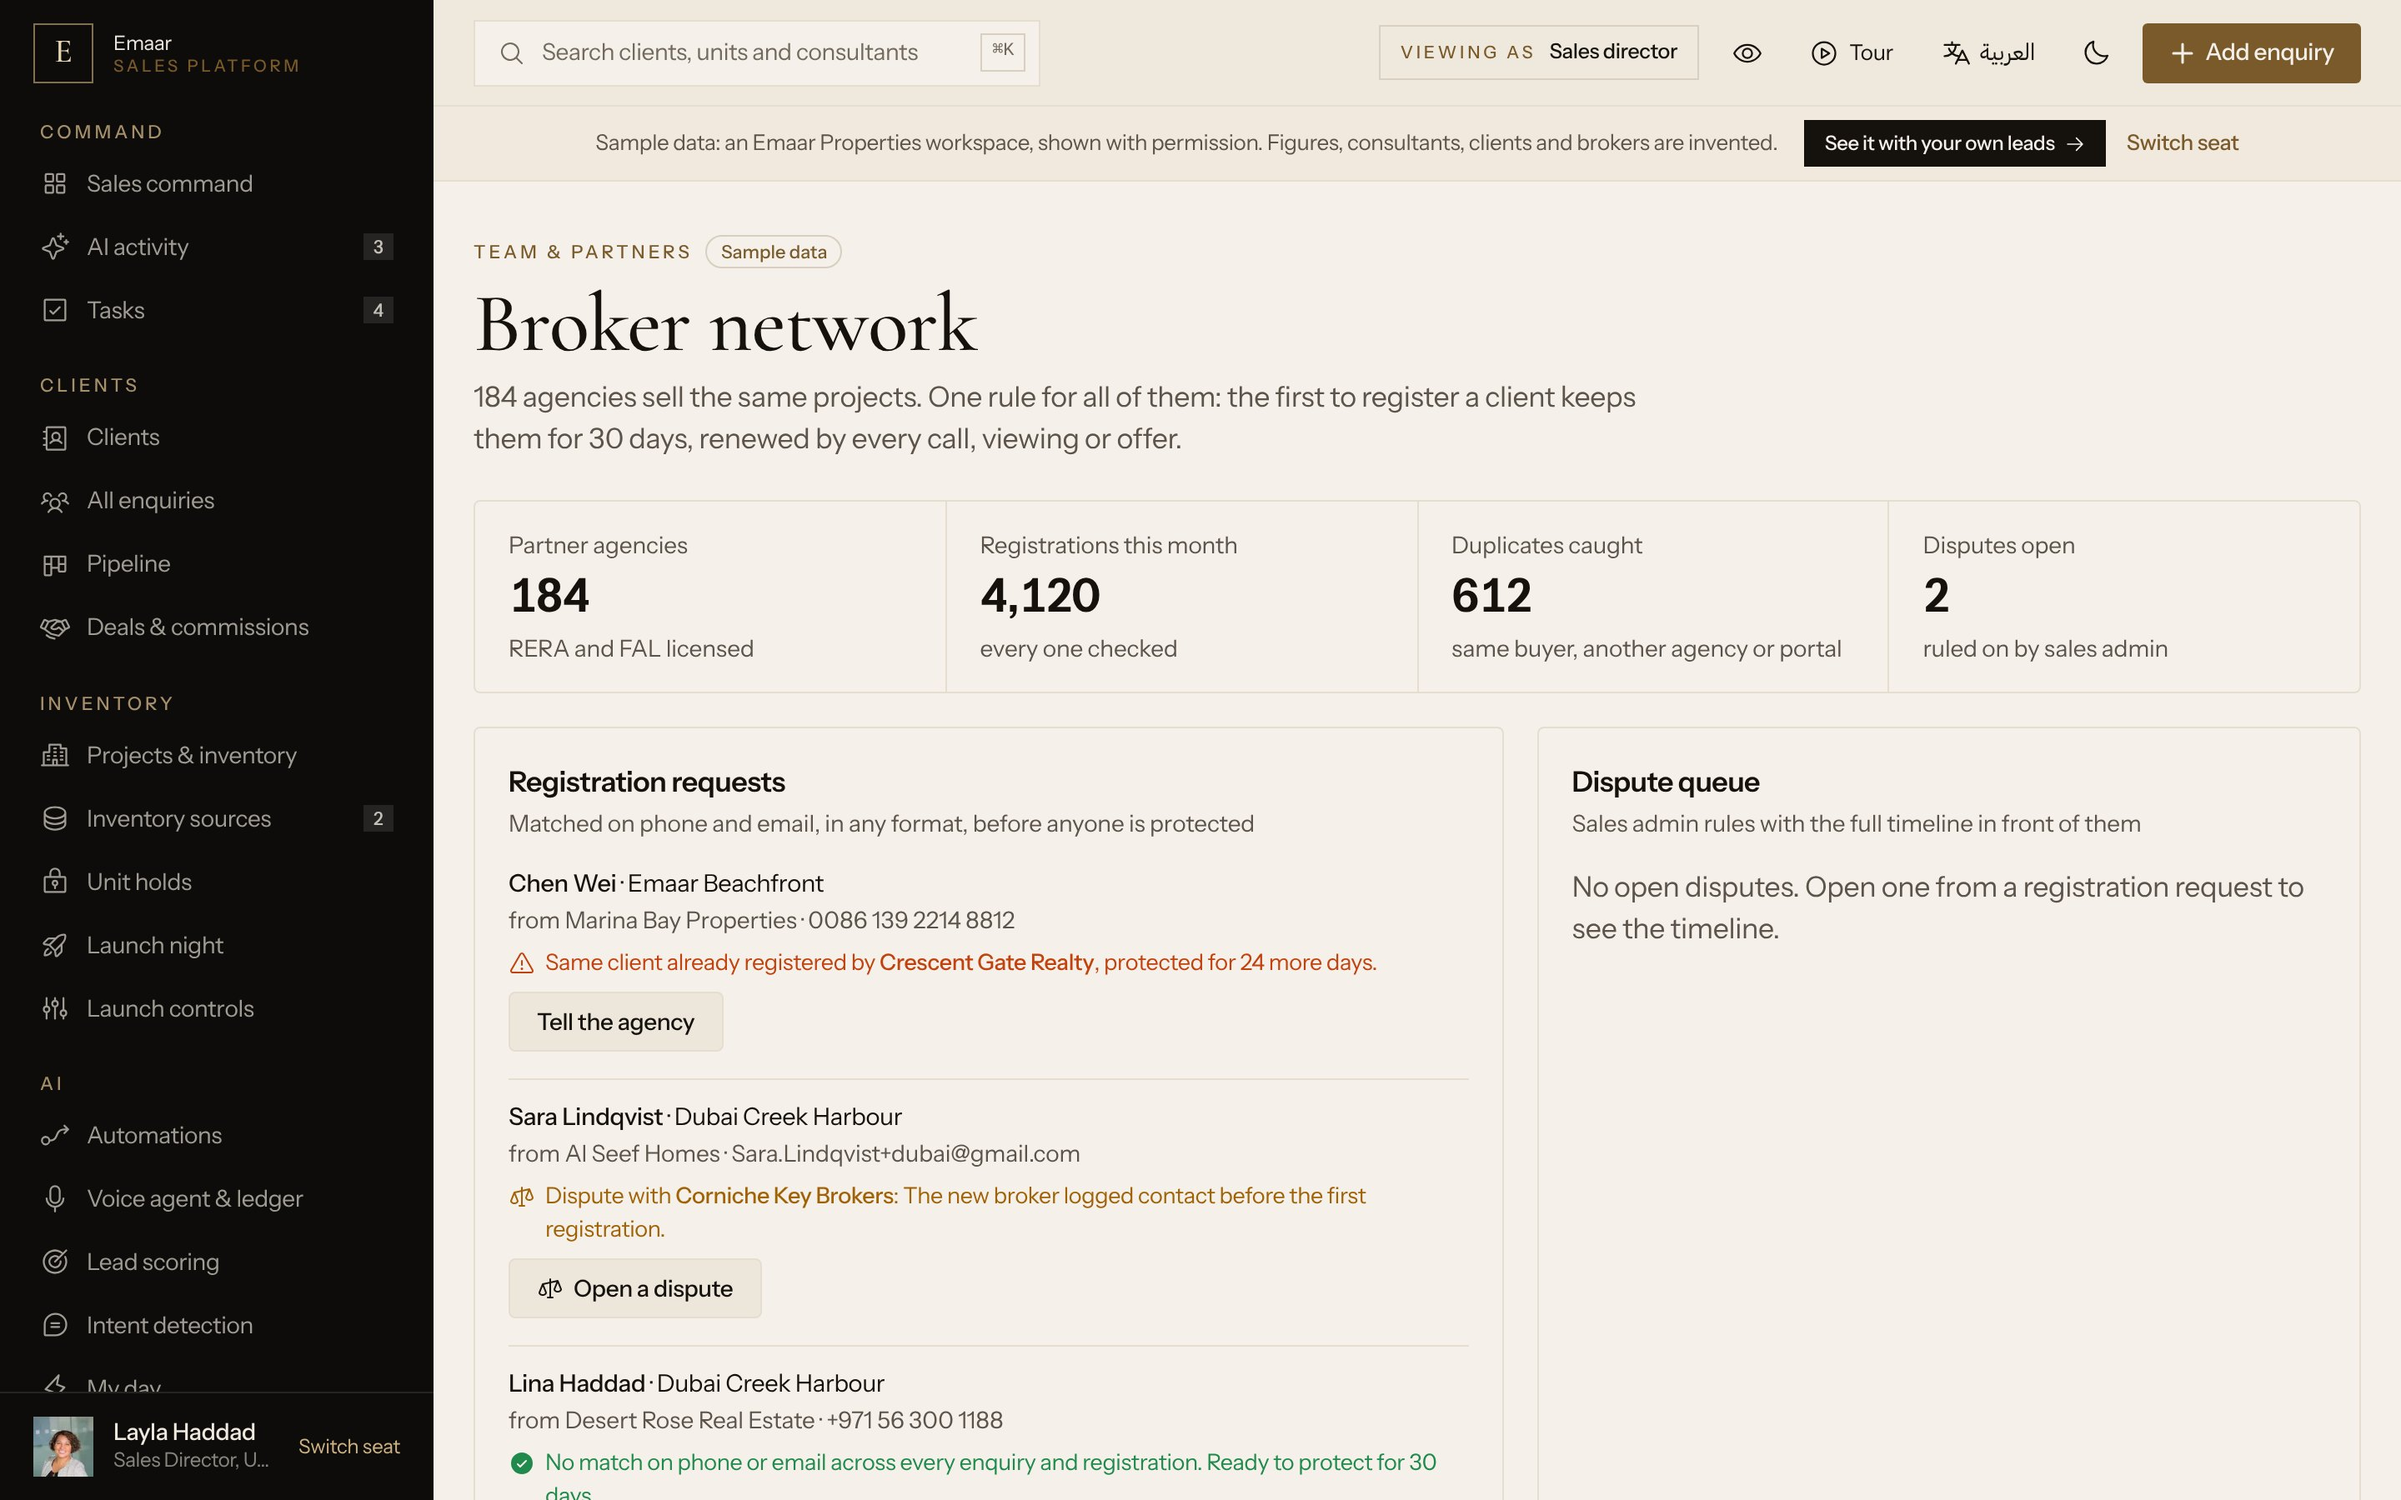
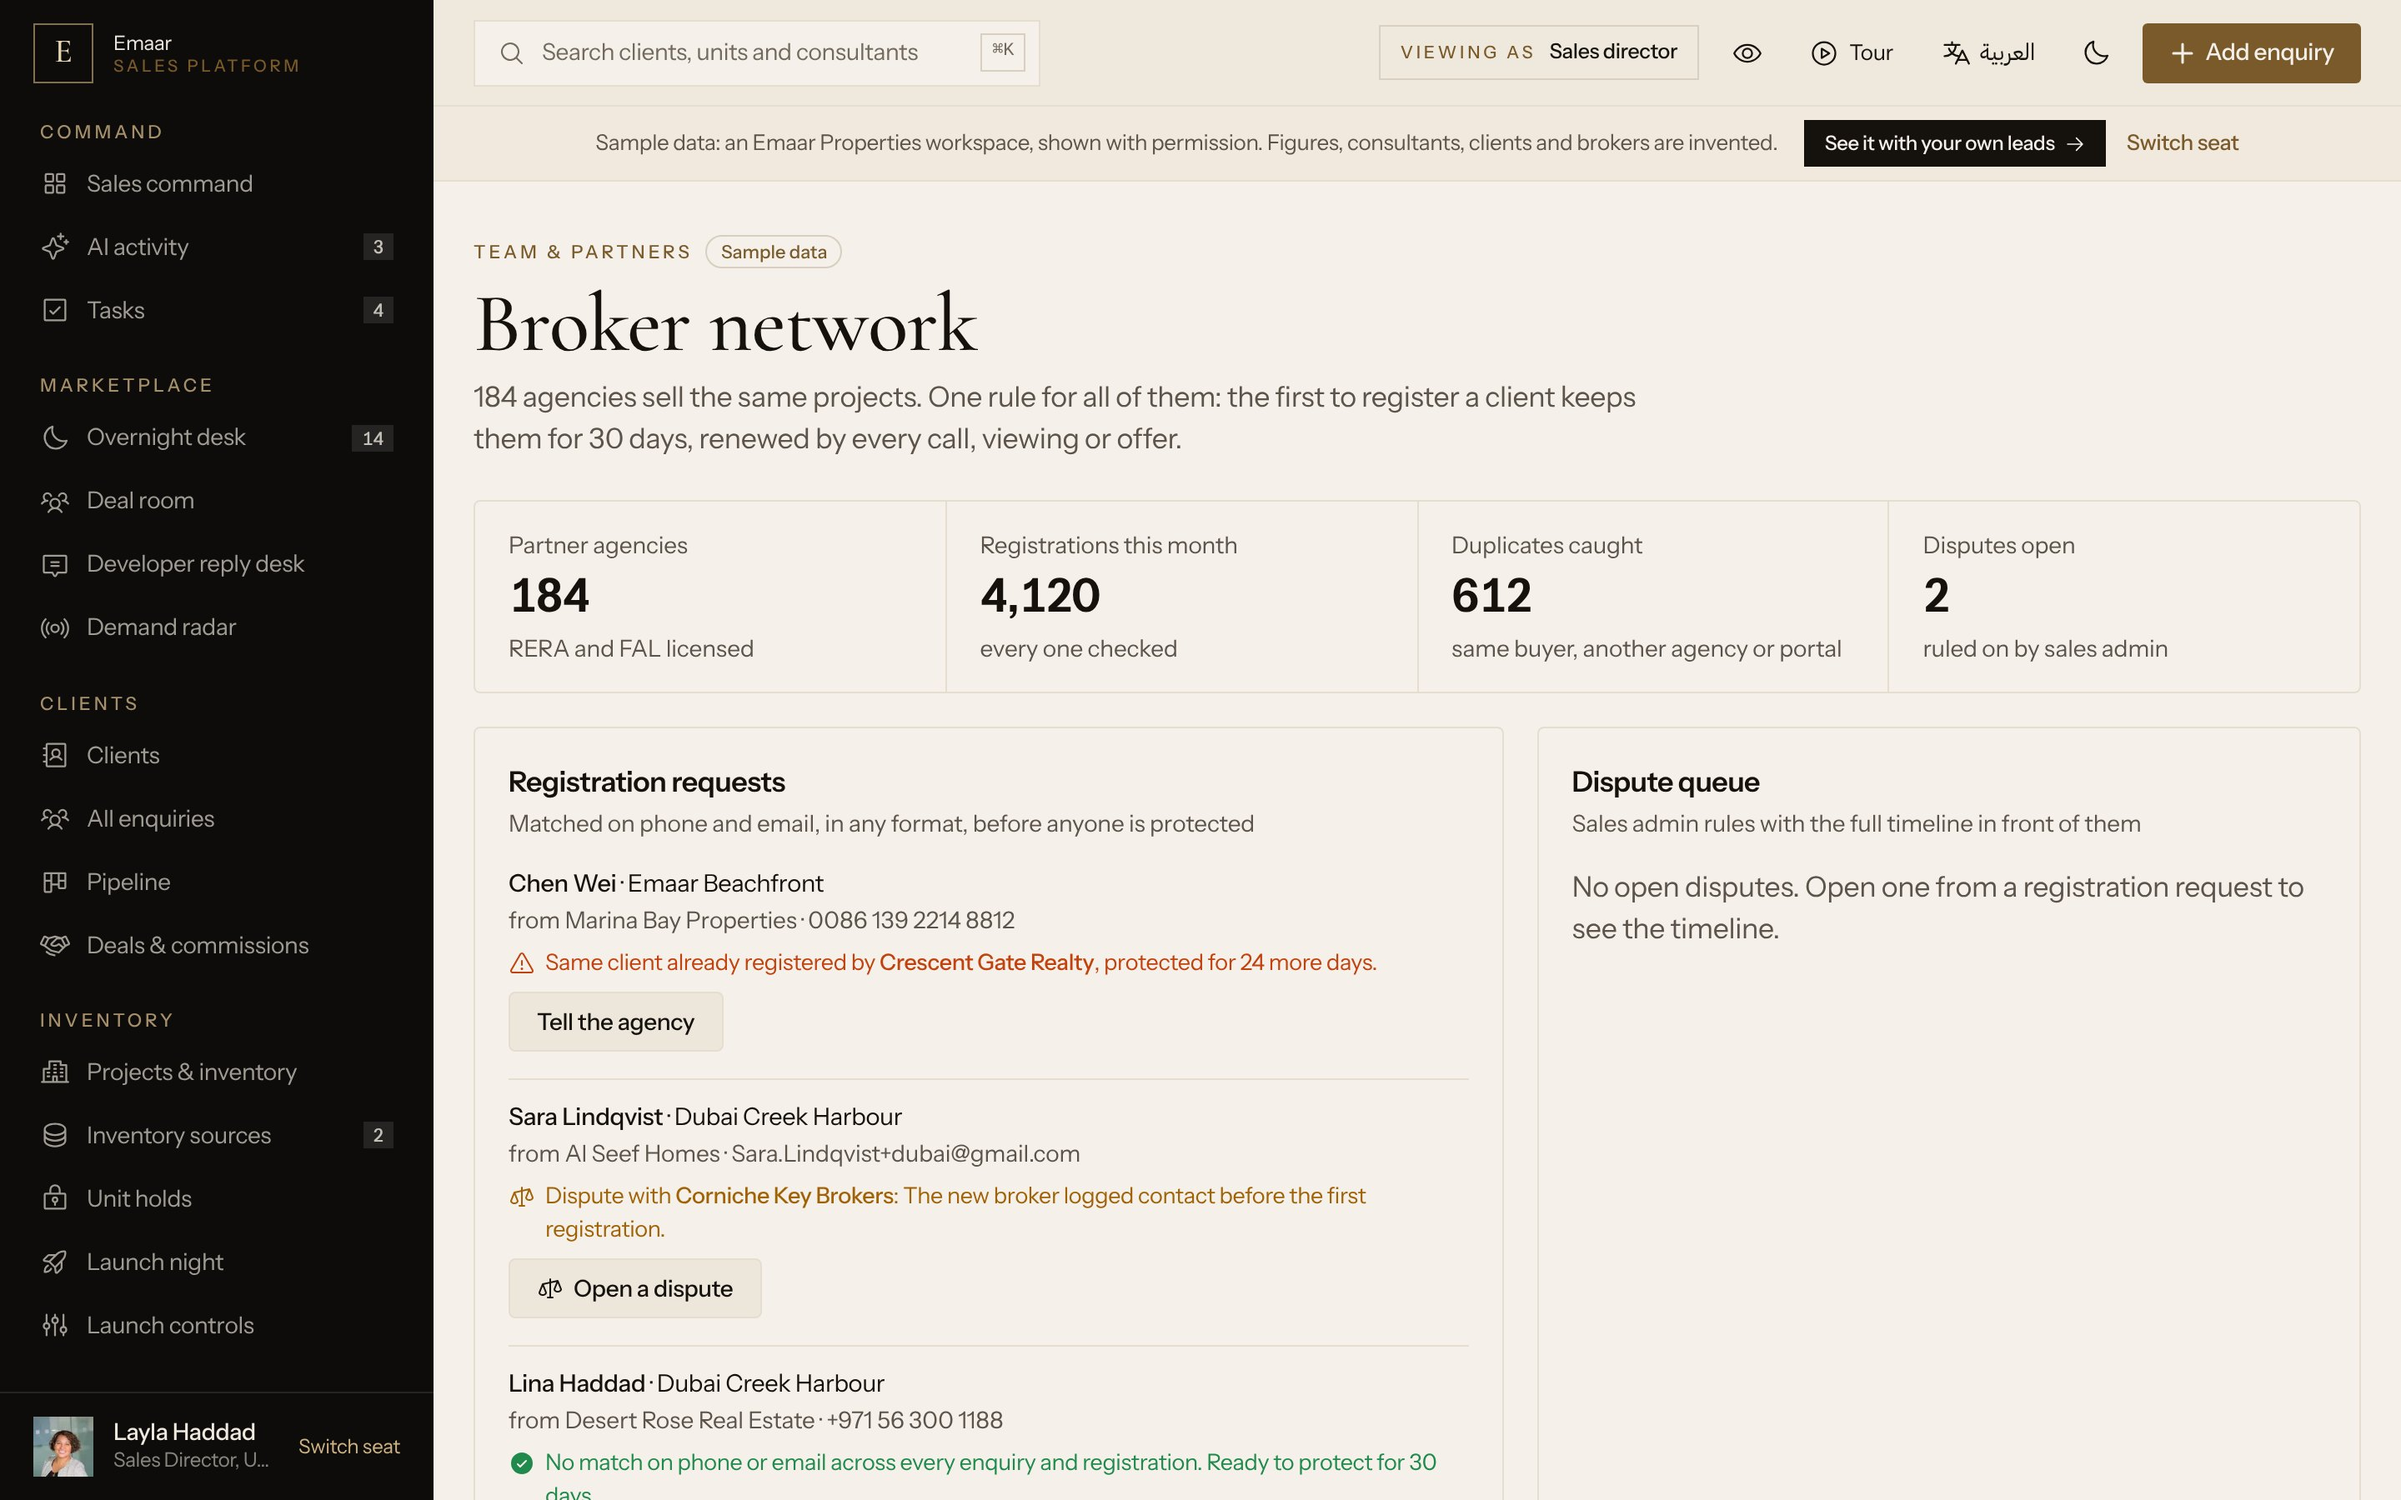
Website: marketplace section (no developer API needed, overnight desk, reply desk, deal room, demand radar)
Claude-Session: https://claude.ai/code/session_01FZKdvcgjLib2AdYMYddfhL

diff --git a/dictionaries/site.ts b/dictionaries/site.ts
@@ -141,6 +141,12 @@ const en = {
         { h: "Channel ROI", t: "Cost per enquiry and sales by source, so budget follows what works.", soon: true },
         { h: "Consultant performance", t: "Reply times, viewings booked and conversion for every consultant, in one table.", soon: true },
       ], shot: "dashboard" },
+      { id: "marketplace", h: "Marketplace", t: "Developers won’t open an API. Observer doesn’t need one: it is the channel developers want to keep up to date.", items: [
+        { h: "Availability confidence", t: "Every unit carries a confidence score built from the latest price list, the developer’s own updates, aggregator feeds, resale listings and sales the Land Department has registered since.", soon: true },
+        { h: "The overnight desk", t: "At midnight the AI quotes only what it is at least 80% sure of, reads the passport and proof of funds, sends the developer’s own refundable deposit link and queues a hold for 9:00. No money passes through Observer.", soon: true },
+        { h: "Developer reply desk", t: "Sales admin updates units in plain words, “A-1204 sold”, on WhatsApp, a no-login link or a forwarded price list. A developer AI answers agencies overnight; a person approves every hold.", soon: true },
+        { h: "Deal room and demand radar", t: "Client, broker and developer in one thread when the desk opens. Developers see anonymised demand by area, size and budget, from consenting clients only.", soon: true },
+      ], shot: "overnight" },
       { id: "brokers", h: "Selling through brokers", t: "One project, many agencies, and no arguments about who brought the client.", items: [
         { h: "Client protection", t: "The first agency to register a client keeps them for 30 days, renewed by every call, viewing or offer. Duplicates are caught on phone and email in any format.", soon: true },
         { h: "Disputes, ruled on evidence", t: "When two agencies claim one client, sales admin sees the full timeline and rules in a tap. Both agencies hear on WhatsApp.", soon: true },
@@ -353,6 +359,12 @@ const ar: SiteDict = {
         { h: "عائد القنوات", t: "تكلفة الاستفسار والمبيعات لكل مصدر، لتتبع الميزانية ما ينجح.", soon: true },
         { h: "أداء المستشارين", t: "زمن الرد والمعاينات المحجوزة ونسبة التحويل لكل مستشار، في جدول واحد.", soon: true },
       ], shot: "dashboard" },
+      { id: "marketplace", h: "السوق", t: "المطورون لا يتيحون واجهة برمجية، وأوبزرفر لا يحتاج إليها: إنه القناة التي يحرص المطورون على تحديثها.", items: [
+        { h: "درجة التأكد من التوفر", t: "لكل وحدة درجة تأكد مبنية على آخر قائمة أسعار، وتحديثات المطور نفسه، ومنصات التجميع، ووحدات إعادة البيع، والمبيعات التي سجّلتها دائرة الأراضي منذ ذلك الحين.", soon: true },
+        { h: "المكتب الليلي", t: "عند منتصف الليل لا يذكر الذكاء الاصطناعي إلا ما هو متأكد منه بنسبة 80% على الأقل، ويقرأ الجواز وإثبات الأموال، ويرسل رابط عربون المطور المسترد، ويُدرج طلب الحجز للساعة 9:00. لا يمر أي مبلغ عبر أوبزرفر.", soon: true },
+        { h: "مكتب ردود المطور", t: "تحدّث إدارة المبيعات الوحدات بكلمات بسيطة مثل «A-1204 مباعة» عبر واتساب أو رابط دون تسجيل دخول أو قائمة أسعار مُعاد توجيهها. ويجيب ذكاء المطور الوكالات ليلاً، ويوافق موظف على كل حجز.", soon: true },
+        { h: "غرفة الصفقة ورادار الطلب", t: "العميل والوسيط والمطور في محادثة واحدة عند فتح المكتب، ويرى المطورون طلباً مجهّل الهوية حسب المنطقة والمساحة والميزانية، من عملاء وافقوا فقط.", soon: true },
+      ], shot: "overnight" },
       { id: "brokers", h: "البيع عبر الوسطاء", t: "مشروع واحد ووكالات كثيرة، دون خلاف على من جاء بالعميل.", items: [
         { h: "حماية العميل", t: "أول وكالة تسجّل العميل تحتفظ به 30 يوماً، وتتجدد الحماية مع كل مكالمة أو معاينة أو عرض. ويُكتشف التكرار بالهاتف والبريد بأي صيغة.", soon: true },
         { h: "نزاعات تُحسم بالأدلة", t: "حين تطالب وكالتان بالعميل نفسه، ترى إدارة المبيعات التسلسل الزمني كاملاً وتحسم بنقرة، وتُبلغ الوكالتان عبر واتساب.", soon: true },
